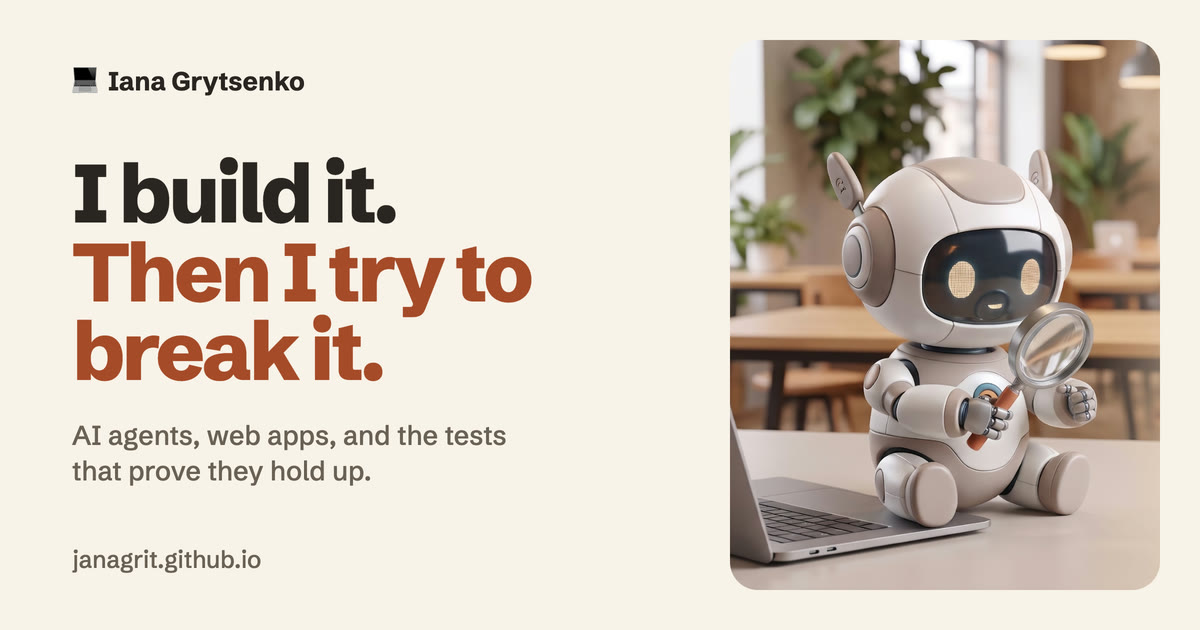
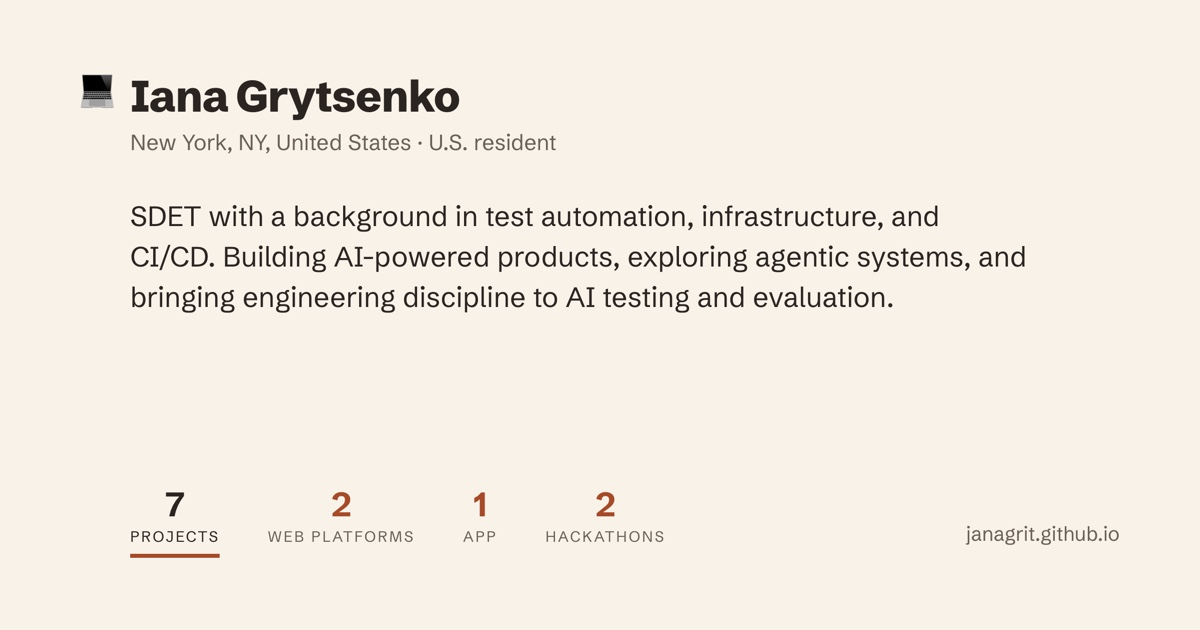
view page

diff --git a/index.html b/index.html
@@ -3,24 +3,24 @@
 <head>
   <meta charset="utf-8">
   <meta name="viewport" content="width=device-width, initial-scale=1, viewport-fit=cover">
-  <title>Iana Grytsenko · I build it. Then I try to break it.</title>
-  <meta name="description" content="Iana Grytsenko, New York. I take ideas to working products, from AI agents to web apps, and build the tests that prove they hold up.">
+  <title>Iana Grytsenko · SDET, AI testing and evaluation</title>
+  <meta name="description" content="Iana Grytsenko, New York. SDET with a background in test automation, infrastructure, and CI/CD. Building AI-powered products, exploring agentic systems, and bringing engineering discipline to AI testing and evaluation.">
   <link rel="canonical" href="https://janagrit.github.io/">
-  <meta property="og:title" content="Iana Grytsenko · I build it. Then I try to break it.">
-  <meta property="og:description" content="I take ideas to working products, from AI agents to web apps, and build the tests that prove they hold up.">
+  <meta property="og:title" content="Iana Grytsenko · SDET, AI testing and evaluation">
+  <meta property="og:description" content="SDET with a background in test automation, infrastructure, and CI/CD. Building AI-powered products, exploring agentic systems, and bringing engineering discipline to AI testing and evaluation.">
   <meta property="og:type" content="website">
   <meta property="og:url" content="https://janagrit.github.io/">
-  <meta property="og:image" content="https://janagrit.github.io/images/og.jpg?v=2">
+  <meta property="og:image" content="https://janagrit.github.io/images/og.jpg?v=3">
   <meta property="og:image:type" content="image/jpeg">
   <meta property="og:image:width" content="1200">
   <meta property="og:image:height" content="630">
-  <meta property="og:image:alt" content="Iana Grytsenko: I build it. Then I try to break it. Beside it, the Job Scout robot with a magnifying glass.">
+  <meta property="og:image:alt" content="Iana Grytsenko, New York, NY. SDET building AI-powered products and testing them. 7 projects, 2 web platforms, 1 app, 2 hackathons.">
   <meta property="og:site_name" content="Iana Notebook">
   <meta name="twitter:card" content="summary_large_image">
-  <meta name="twitter:title" content="Iana Grytsenko · I build it. Then I try to break it.">
-  <meta name="twitter:description" content="I take ideas to working products, from AI agents to web apps, and build the tests that prove they hold up.">
-  <meta name="twitter:image" content="https://janagrit.github.io/images/og.jpg?v=2">
-  <meta name="twitter:image:alt" content="Iana Grytsenko: I build it. Then I try to break it. Beside it, the Job Scout robot with a magnifying glass.">
+  <meta name="twitter:title" content="Iana Grytsenko · SDET, AI testing and evaluation">
+  <meta name="twitter:description" content="SDET with a background in test automation, infrastructure, and CI/CD. Building AI-powered products, exploring agentic systems, and bringing engineering discipline to AI testing and evaluation.">
+  <meta name="twitter:image" content="https://janagrit.github.io/images/og.jpg?v=3">
+  <meta name="twitter:image:alt" content="Iana Grytsenko, New York, NY. SDET building AI-powered products and testing them. 7 projects, 2 web platforms, 1 app, 2 hackathons.">
   <meta name="color-scheme" content="light dark">
   <meta name="theme-color" content="#f8f2e9" media="(prefers-color-scheme: light)">
   <meta name="theme-color" content="#1c1815" media="(prefers-color-scheme: dark)">
@@ -43,9 +43,9 @@
       if (t === 'dark' || t === 'light') document.documentElement.setAttribute('data-theme', t);
     })();
   </script>
-  <script type="application/ld+json">{"@context": "https://schema.org", "@type": "Person", "name": "Iana Grytsenko", "url": "https://janagrit.github.io/", "image": "https://janagrit.github.io/images/og.jpg?v=2", "email": "mailto:ianagrytsenko@gmail.com", "address": {"@type": "PostalAddress", "addressLocality": "New York", "addressRegion": "NY", "addressCountry": "US"}, "knowsAbout": ["Test automation", "Playwright", "TypeScript", "AI agent testing", "API testing", "Accessibility testing", "CI/CD"], "knowsLanguage": ["English", "Ukrainian", "Chinese"], "sameAs": ["https://www.linkedin.com/in/ianagrytsenko", "https://github.com/janagrit"]}</script>
+  <script type="application/ld+json">{"@context": "https://schema.org", "@type": "Person", "name": "Iana Grytsenko", "url": "https://janagrit.github.io/", "image": "https://janagrit.github.io/images/og.jpg?v=3", "email": "mailto:ianagrytsenko@gmail.com", "address": {"@type": "PostalAddress", "addressLocality": "New York", "addressRegion": "NY", "addressCountry": "US"}, "knowsAbout": ["Test automation", "Playwright", "TypeScript", "AI agent testing", "API testing", "Accessibility testing", "CI/CD"], "knowsLanguage": ["English", "Ukrainian", "Chinese"], "sameAs": ["https://www.linkedin.com/in/ianagrytsenko", "https://github.com/janagrit"]}</script>
   <style>
-  /* Layout: one 1160px grid with equal margins. Big two-line hero beside the real Job Scout demo,
+  /* Layout: one 1160px grid with equal margins. Name, location and a short intro at the top,
      then four alternating project rows, each with a "Build / Break" switch, then one focus strip and contact. */
   :root {
     --bg: #f8f2e9;
@@ -79,11 +79,16 @@
 
   /* nav */
   .nav { display: flex; align-items: center; justify-content: space-between; gap: 16px; padding-block: 22px; }
-  .mark { font-weight: 700; text-decoration: none; display: flex; gap: 8px; align-items: center; }
+  .mark { text-decoration: none; display: flex; gap: 8px; align-items: flex-start; }
+  .mark .ico { flex: none; width: 22px; line-height: 1.3; }
+  .mark .name { display: block; font-weight: 700; line-height: 1.3; }
+  .mark .loc { display: block; font-size: 12.5px; line-height: 1.4; color: var(--muted); margin-top: 2px; }
+  .mark .nw { white-space: nowrap; }
+  @media (max-width: 560px) { .mark .sep { display: none; } .mark .nw { display: block; } }
   .nav ul { display: flex; gap: 24px; list-style: none; margin: 0; padding: 0; font-size: 14px; }
   .nav ul a { text-decoration: none; color: var(--muted); }
   .nav ul a:hover { color: var(--ink); }
-  .btn { display: inline-flex; align-items: center; gap: 8px; font: 600 14px/1 var(--sans); padding: 10px 16px; border-radius: 999px; background: var(--ink); color: var(--on-ink); text-decoration: none; border: 0; cursor: pointer; transition: transform .16s ease-out; }
+  .btn { display: inline-flex; align-items: center; gap: 8px; font: 600 14px/1 var(--sans); padding: 10px 16px; border-radius: 999px; background: var(--ink); color: var(--on-ink); text-decoration: none; border: 0; cursor: pointer; white-space: nowrap; transition: transform .16s ease-out; }
   .btn:active { transform: scale(.97); }
   .btn.ghost { background: transparent; color: var(--ink); box-shadow: inset 0 0 0 1.5px var(--ink); }
   .nav-end { display: flex; align-items: center; gap: 12px; }
@@ -93,20 +98,27 @@
   .theme-toggle svg { width: 18px; height: 18px; }
 
   /* hero */
-  .hero { display: grid; grid-template-columns: 1.25fr 1fr; gap: 56px; align-items: center; padding-block: 40px 88px; }
-  .hero h1 { font-size: clamp(32px, 4.2vw, 58px); line-height: .98; letter-spacing: -0.035em; font-weight: 800; }
-  .hero h1 span { display: block; }
-  .hero h1 .b { color: var(--break); }
-  .lede { font-size: 17px; line-height: 1.5; margin-top: 24px; max-width: 30em; }
-  .actions { display: flex; gap: 12px; flex-wrap: wrap; margin-top: 32px; }
-  .hero-media { position: relative; border-radius: 14px; overflow: hidden; background: var(--surface); aspect-ratio: 16 / 10; max-width: 100%; }
-  .hero-media video { width: 100%; height: 100%; object-fit: cover; display: block; }
-  .hero-cap { font-size: 13px; color: var(--muted); margin-top: 12px; }
+  /* Short intro lined up with the name in the nav (22px icon + 8px gap). */
+  .hero { padding-top: 0; padding-bottom: 72px; }
+  .hero-in { padding-left: 30px; max-width: calc(520px + 30px); }
+  .lede { font-size: 15px; line-height: 1.6; }
+  .actions { display: flex; gap: 12px; flex-wrap: wrap; margin-top: 24px; }
+  .sr-only { position: absolute; width: 1px; height: 1px; padding: 0; margin: -1px; overflow: hidden; clip: rect(0 0 0 0); white-space: nowrap; border: 0; }
 
   /* work */
   .sec-h { font-size: clamp(26px, 3vw, 38px); letter-spacing: -0.03em; line-height: 1.05; font-weight: 800; margin-bottom: 12px; }
   .sec-sub { color: var(--muted); max-width: 36em; margin-bottom: 56px; }
   /* Project grid: image, title, type. Clicking a card opens its details in the #project dialog. */
+  /* Category tabs above the grid (Devpost-style): count centred over an uppercase label; the pressed one gets a thick accent underline. */
+  .tabs { display: flex; gap: 44px; margin: -16px 0 44px; overflow-x: auto; scrollbar-width: none; }
+  .tabs::-webkit-scrollbar { display: none; }
+  .tabs button { flex: none; display: grid; justify-items: center; gap: 4px; padding: 0 0 12px; background: none; border: 0; border-bottom: 3px solid transparent; color: var(--muted); font: inherit; cursor: pointer; transition: color .16s ease-out, border-color .16s ease-out; }
+  .tabs b { font-size: 26px; line-height: 1.1; font-weight: 700; color: var(--break); }
+  .tabs span { font-size: 14px; font-weight: 400; letter-spacing: .12em; text-transform: uppercase; }
+  .tabs button:hover { color: var(--ink); }
+  .tabs button[aria-pressed="true"] { color: var(--ink); border-bottom-color: var(--break); }
+  .tabs button[aria-pressed="true"] b { color: var(--ink); }
+  @media (max-width: 560px) { .tabs { gap: 28px; } .tabs b { font-size: 22px; } .tabs span { font-size: 12.5px; } }
   .grid { display: grid; grid-template-columns: repeat(3, minmax(0, 1fr)); gap: 44px 28px; }
   .project { position: relative; min-width: 0; }
   .project .media { cursor: pointer; }
@@ -217,9 +229,9 @@
 
   @media (max-width: 860px) {
     .nav ul { display: none; }
-    .hero, .approach .wrap, .writing { grid-template-columns: 1fr; gap: 28px; }
+    .approach .wrap, .writing { grid-template-columns: 1fr; gap: 28px; }
     .grid { grid-template-columns: repeat(2, minmax(0, 1fr)); gap: 36px 20px; }
-    .hero { padding-block: 24px 80px; }
+    .hero { padding-bottom: 64px; }
     .approach .wrap { padding-block: 80px; }
     .writing { padding-block: 80px 0; }
     .contact { padding-block: 96px 32px; }
@@ -235,7 +247,7 @@
 <a class="skip" href="#main">Skip to main content</a>
 
 <header class="wrap nav">
-  <a class="mark" href="#top"><span aria-hidden="true">💻</span>Iana Grytsenko</a>
+  <a class="mark" href="#top"><span class="ico" aria-hidden="true">💻</span><span><span class="name">Iana Grytsenko</span><span class="loc"><span class="nw">New York, NY, United States</span> <span class="sep" aria-hidden="true">·</span> <span class="nw">U.S. resident</span></span></span></a>
   <nav aria-label="Main"><ul><li><a href="#work">Work</a></li><li><a href="#approach">Focus</a></li><li><a href="#writing">Writing</a></li><li><a href="#contact">Contact</a></li></ul></nav>
   <div class="nav-end">
     <button class="theme-toggle" type="button" id="theme-toggle"></button>
@@ -245,14 +257,10 @@
 
 <main id="main">
   <section class="wrap hero" id="top" aria-labelledby="hero-h">
-    <div>
-      <h1 id="hero-h"><span>I build it.</span><span class="b">Then I try to break it.</span></h1>
-      <p class="lede">I'm Iana, based in New York. I take ideas to working products, from AI agents to web apps, and build the tests that prove they hold up.</p>
+    <div class="hero-in">
+      <h1 id="hero-h" class="sr-only">Iana Grytsenko</h1>
+      <p class="lede">SDET with a background in test automation, infrastructure, and CI/CD. Building AI-powered products, exploring agentic systems, and bringing engineering discipline to AI testing and evaluation.</p>
       <div class="actions"><a class="btn" href="#work">See the work</a><a class="btn ghost" href="https://calendly.com/ianagrytsenko/30min" target="_blank" rel="noopener">Book a 30-minute call</a></div>
-    </div>
-    <div>
-      <div class="hero-media"><video id="hero-video" src="images/job-scout-agent.mp4" poster="images/job-scout.jpg" autoplay muted loop playsinline aria-label="Job Scout Agent demo"></video></div>
-      <p class="hero-cap">Job Scout Agent, matching a CV to new roles.</p>
     </div>
   </section>
 
@@ -260,8 +268,16 @@
     <h2 class="sec-h" id="work-h">Work</h2>
     <p class="sec-sub">Things I built or helped build. Each one has two sides: what it does, and how I made sure it does it.</p>
 
+    <div class="tabs" role="group" aria-label="Filter projects">
+      <button type="button" data-cat="all" aria-pressed="true"><b>7</b><span>All</span></button>
+      <button type="button" data-cat="web" aria-pressed="false"><b>2</b><span>Web platforms</span></button>
+      <button type="button" data-cat="app" aria-pressed="false"><b>1</b><span>Apps</span></button>
+      <button type="button" data-cat="hackathon" aria-pressed="false"><b>2</b><span>Hackathons</span></button>
+      <button type="button" data-cat="oss" aria-pressed="false"><b>2</b><span>Open source</span></button>
+    </div>
+
       <div class="grid">
-      <article class="project" aria-labelledby="p7">
+      <article class="project" data-cat="hackathon" aria-labelledby="p7">
         <div class="media" aria-hidden="true"><img src="images/nyc-subway-eval.jpg" width="1280" height="800" alt="Chart: correct answers out of 10 for Claude Haiku 5.5 and GPT-6 Luna over 20 runs at low, medium and high reasoning effort" loading="lazy"><span class="chain" style="top:10px;bottom:auto" aria-hidden="true">3rd place · $1,250</span></div>
         <h3 class="c-title"><button type="button" id="p7" data-detail aria-haspopup="dialog">NYC Subway Weekend Task Factory</button></h3>
         <p class="p-kind">Team project · hackathon 3rd place</p>
@@ -283,7 +299,7 @@
           <div class="links"><a href="https://github.com/dchen024/innodata-hackathon-team-2" target="_blank" rel="noopener">Code ↗</a></div>
         </div>
       </article>
-      <article class="project" aria-labelledby="p1">
+      <article class="project" data-cat="web" aria-labelledby="p1">
         <div class="media" aria-hidden="true"><img src="images/job-scout.jpg" width="640" height="400" alt="Job Scout application interface"></div>
         <h3 class="c-title"><button type="button" id="p1" data-detail aria-haspopup="dialog">Job Scout Agent</button></h3>
         <p class="p-kind">AI product · live</p>
@@ -306,7 +322,7 @@
           <div class="links"><button class="btn" type="button" data-open="jobscout">▶ Watch demo</button><a href="https://job-scout-agent.com/" target="_blank" rel="noopener">Open the app ↗</a></div>
         </div>
       </article>
-      <article class="project" aria-labelledby="p6">
+      <article class="project" data-cat="oss" aria-labelledby="p6">
         <div class="media" aria-hidden="true"><img src="images/job-scout-rag-overlay.jpg" width="1280" height="800" alt="Terminal tile: the RAG service's two endpoints and its test result, 78 passed with 98.5% coverage" loading="lazy"></div>
         <h3 class="c-title"><button type="button" id="p6" data-detail aria-haspopup="dialog">Job Scout — RAG &amp; Semantic Retrieval Overlay</button></h3>
         <p class="p-kind">AI engineering · experimental</p>
@@ -330,7 +346,7 @@
           <div class="links"><a href="https://github.com/janagrit/jobscout_rag_overlay" target="_blank" rel="noopener">Code ↗</a></div>
         </div>
       </article>
-      <article class="project" aria-labelledby="p2">
+      <article class="project" data-cat="oss" aria-labelledby="p2">
         <div class="media" aria-hidden="true"><img src="images/agent-eval.jpg" width="640" height="400" alt="Terminal running the evaluation harness" loading="lazy"></div>
         <h3 class="c-title"><button type="button" id="p2" data-detail aria-haspopup="dialog">AI Agent Evaluation &amp; Adversarial Testing Framework</button></h3>
         <p class="p-kind">AI quality · open source</p>
@@ -352,7 +368,7 @@
           <div class="links"><a href="https://github.com/janagrit/voice-agent-eval-harness" target="_blank" rel="noopener">Code ↗</a><a href="#writing">Read the write-up</a></div>
         </div>
       </article>
-      <article class="project" aria-labelledby="p5">
+      <article class="project" data-cat="hackathon" aria-labelledby="p5">
         <div class="media" aria-hidden="true"><img src="images/nearauth.jpg" width="1280" height="732" alt="NEARAuth dashboard: identity vault, exposure tracker and audit ledger" loading="lazy"><span class="chain" aria-hidden="true">NEAR · testnet</span></div>
         <h3 class="c-title"><button type="button" id="p5" data-detail aria-haspopup="dialog">NEARAuth</button></h3>
         <p class="p-kind">QA contribution · blockchain &amp; privacy</p>
@@ -376,10 +392,10 @@
           <div class="links"><button class="btn" type="button" data-open="nearauth">▶ Watch demo</button><a href="https://pauloes-btechs.github.io/NEARAuth/#overview" target="_blank" rel="noopener">Open the demo ↗</a><a href="https://github.com/pauloes-btechs/NEARAuth" target="_blank" rel="noopener">Code ↗</a></div>
         </div>
       </article>
-      <article class="project" aria-labelledby="p3">
+      <article class="project" data-cat="app" aria-labelledby="p3">
         <div class="media contain" aria-hidden="true"><img src="images/moisha-chat.jpg" width="416" height="900" alt="Moisha chat showing a nightly price card" loading="lazy"></div>
         <h3 class="c-title"><button type="button" id="p3" data-detail aria-haspopup="dialog">Moisha</button></h3>
-        <p class="p-kind">Web app · private</p>
+        <p class="p-kind">App · private</p>
         <div class="p-detail" hidden>
           <p class="p-line">A pocket pricing advisor for Airbnb hosts. You talk to him; he compares nearby prices, spots empty dates and suggests a nightly rate.</p>
           <dl class="facts"><dt>Problem</dt><dd>Hosts set prices by guessing, and empty nights cost money nobody sees.</dd><dt>My role</dt><dd>Product, design and build.</dd></dl>
@@ -397,7 +413,7 @@
           <div class="links"><button class="btn" type="button" data-open="moisha">▶ Watch demo</button></div>
         </div>
       </article>
-      <article class="project" aria-labelledby="p4">
+      <article class="project" data-cat="web" aria-labelledby="p4">
         <div class="media" aria-hidden="true"><img src="images/momup.jpg" width="640" height="400" alt="Kids Nearby: activities in Berlin on a map" loading="lazy"></div>
         <h3 class="c-title"><button type="button" id="p4" data-detail aria-haspopup="dialog">Kids Nearby</button></h3>
         <p class="p-kind">Full-stack · live</p>
@@ -524,6 +540,19 @@
   media.addEventListener('change', function () { if (!root.hasAttribute('data-theme')) paint(); });
   paint();
 
+  // Category tabs: counts come from the cards, so they stay right when projects are added.
+  (function () {
+    var tabs = document.querySelectorAll('.tabs button'), cards = document.querySelectorAll('.grid .project');
+    tabs.forEach(function (t) {
+      var c = t.getAttribute('data-cat');
+      t.querySelector('b').textContent = c === 'all' ? cards.length : document.querySelectorAll('.grid .project[data-cat="' + c + '"]').length;
+      t.addEventListener('click', function () {
+        tabs.forEach(function (o) { o.setAttribute('aria-pressed', String(o === t)); });
+        cards.forEach(function (card) { card.hidden = c !== 'all' && card.getAttribute('data-cat') !== c; });
+      });
+    });
+  })();
+
   // Build / Break switch (delegated: the switches live in the project dialog).
   document.addEventListener('click', function (e) {
     var b = e.target.closest('.switch button'); if (!b) return;
@@ -551,10 +580,6 @@
     if (e.target === pdlg) pdlg.close();
     var a = e.target.closest('a[href^="#"]'); if (a) pdlg.close();
   });
-
-  // Respect reduced motion: don't autoplay the hero video.
-  var hero = document.getElementById('hero-video');
-  if (hero && window.matchMedia('(prefers-reduced-motion: reduce)').matches) { hero.removeAttribute('autoplay'); hero.pause(); hero.controls = true; }
 
   // Demo dialog: videos load only when opened.
   var dlg = document.getElementById('demo'), box = document.getElementById('d-media');
